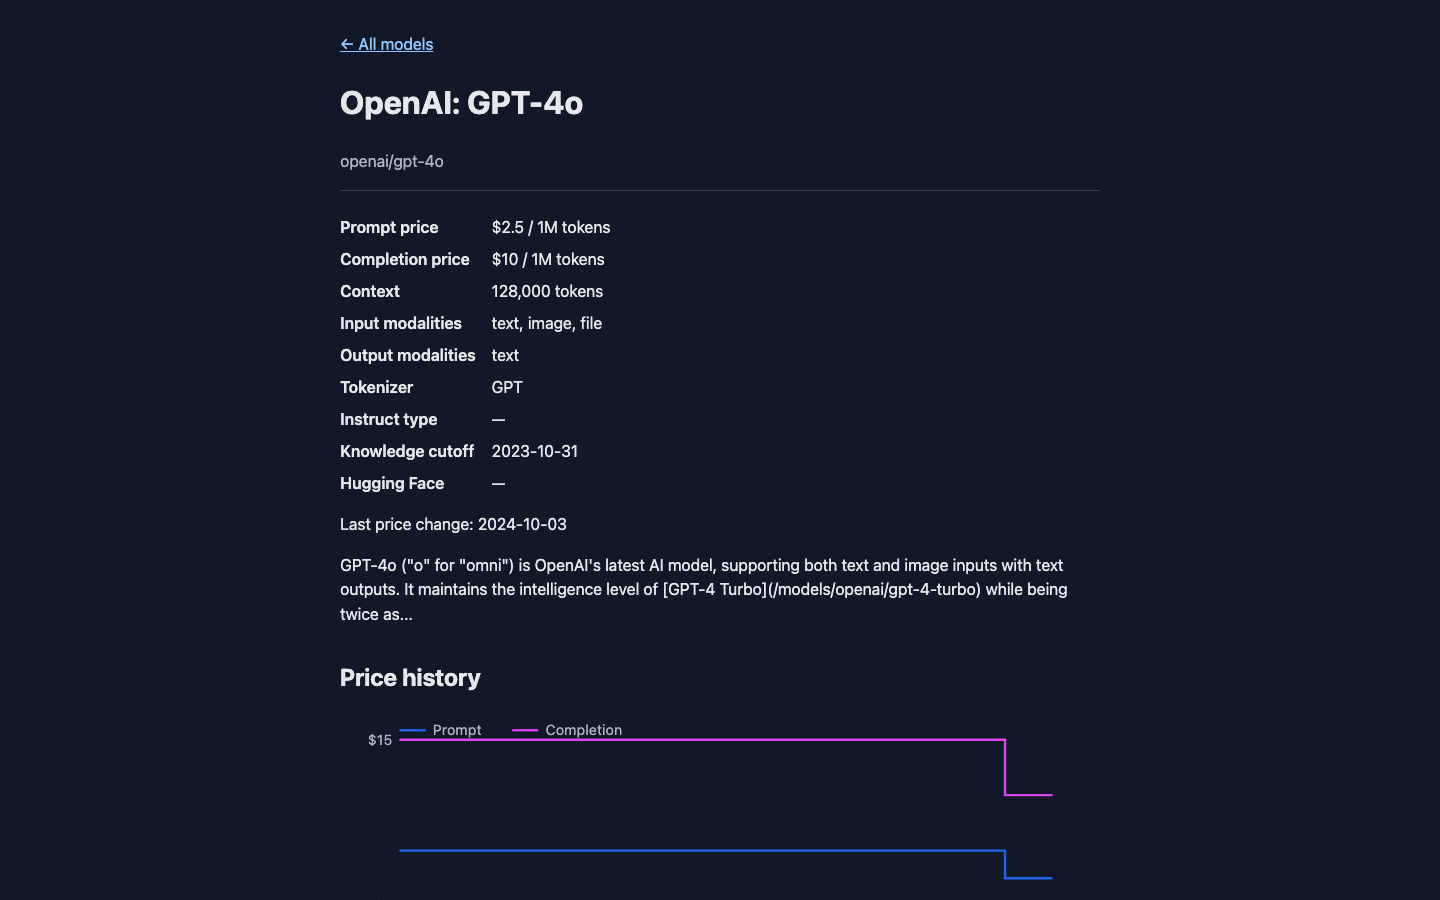
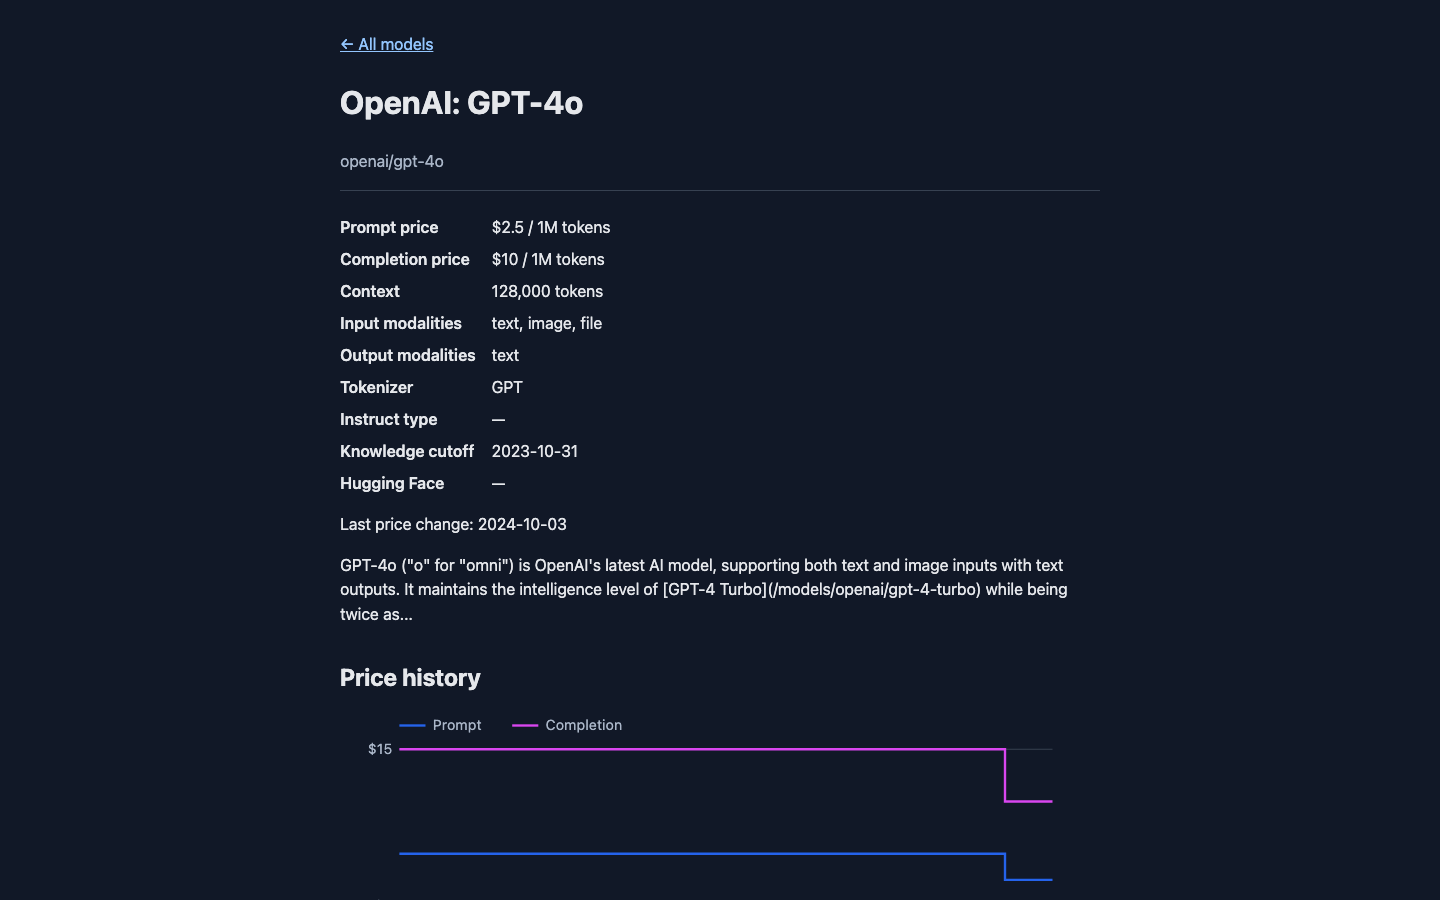
#30 fix: review round 2

Changed region(s): [[0.25, 0.7778, 0.7188, 0.84], [0.2812, 0.9333, 0.6875, 0.9644], [0.6875, 0.8711, 0.7188, 0.9022]]

diff --git a/index.html b/index.html
@@ -1634,11 +1634,11 @@
 
     // Escape untrusted strings (model names/ids from the API) before injecting as HTML.
     const escHtml = s => String(s).replace(/[&<>"']/g, c => ({ '&': '&amp;', '<': '&lt;', '>': '&gt;', '"': '&quot;', "'": '&#39;' }[c]));
-    const modelPageSlug = id => String(id).replace(/[^A-Za-z0-9._\/-]/g, '-');
+    const modelPageSlug = id => String(id).replace(/[^A-Za-z0-9._\/-]/gu, '-');
     const isSafeModelPageSlug = slug => slug.split('/').every(segment => segment && segment !== '.' && segment !== '..' && !segment.startsWith('.'));
     const modelPageLink = id => {
       const slug = modelPageSlug(id);
-      return isSafeModelPageSlug(slug) ? '<a class="model-page-link" ' + 'href="/m/' + slug + '/">' + escHtml(id) + '</a>' : escHtml(id);
+      return isSafeModelPageSlug(slug) ? `<a class="model-page-link" href="/m/${slug}/">${escHtml(id)}</a>` : escHtml(id);
     };
 
     // Negative or unparseable values do not represent a fixed per-token price.
